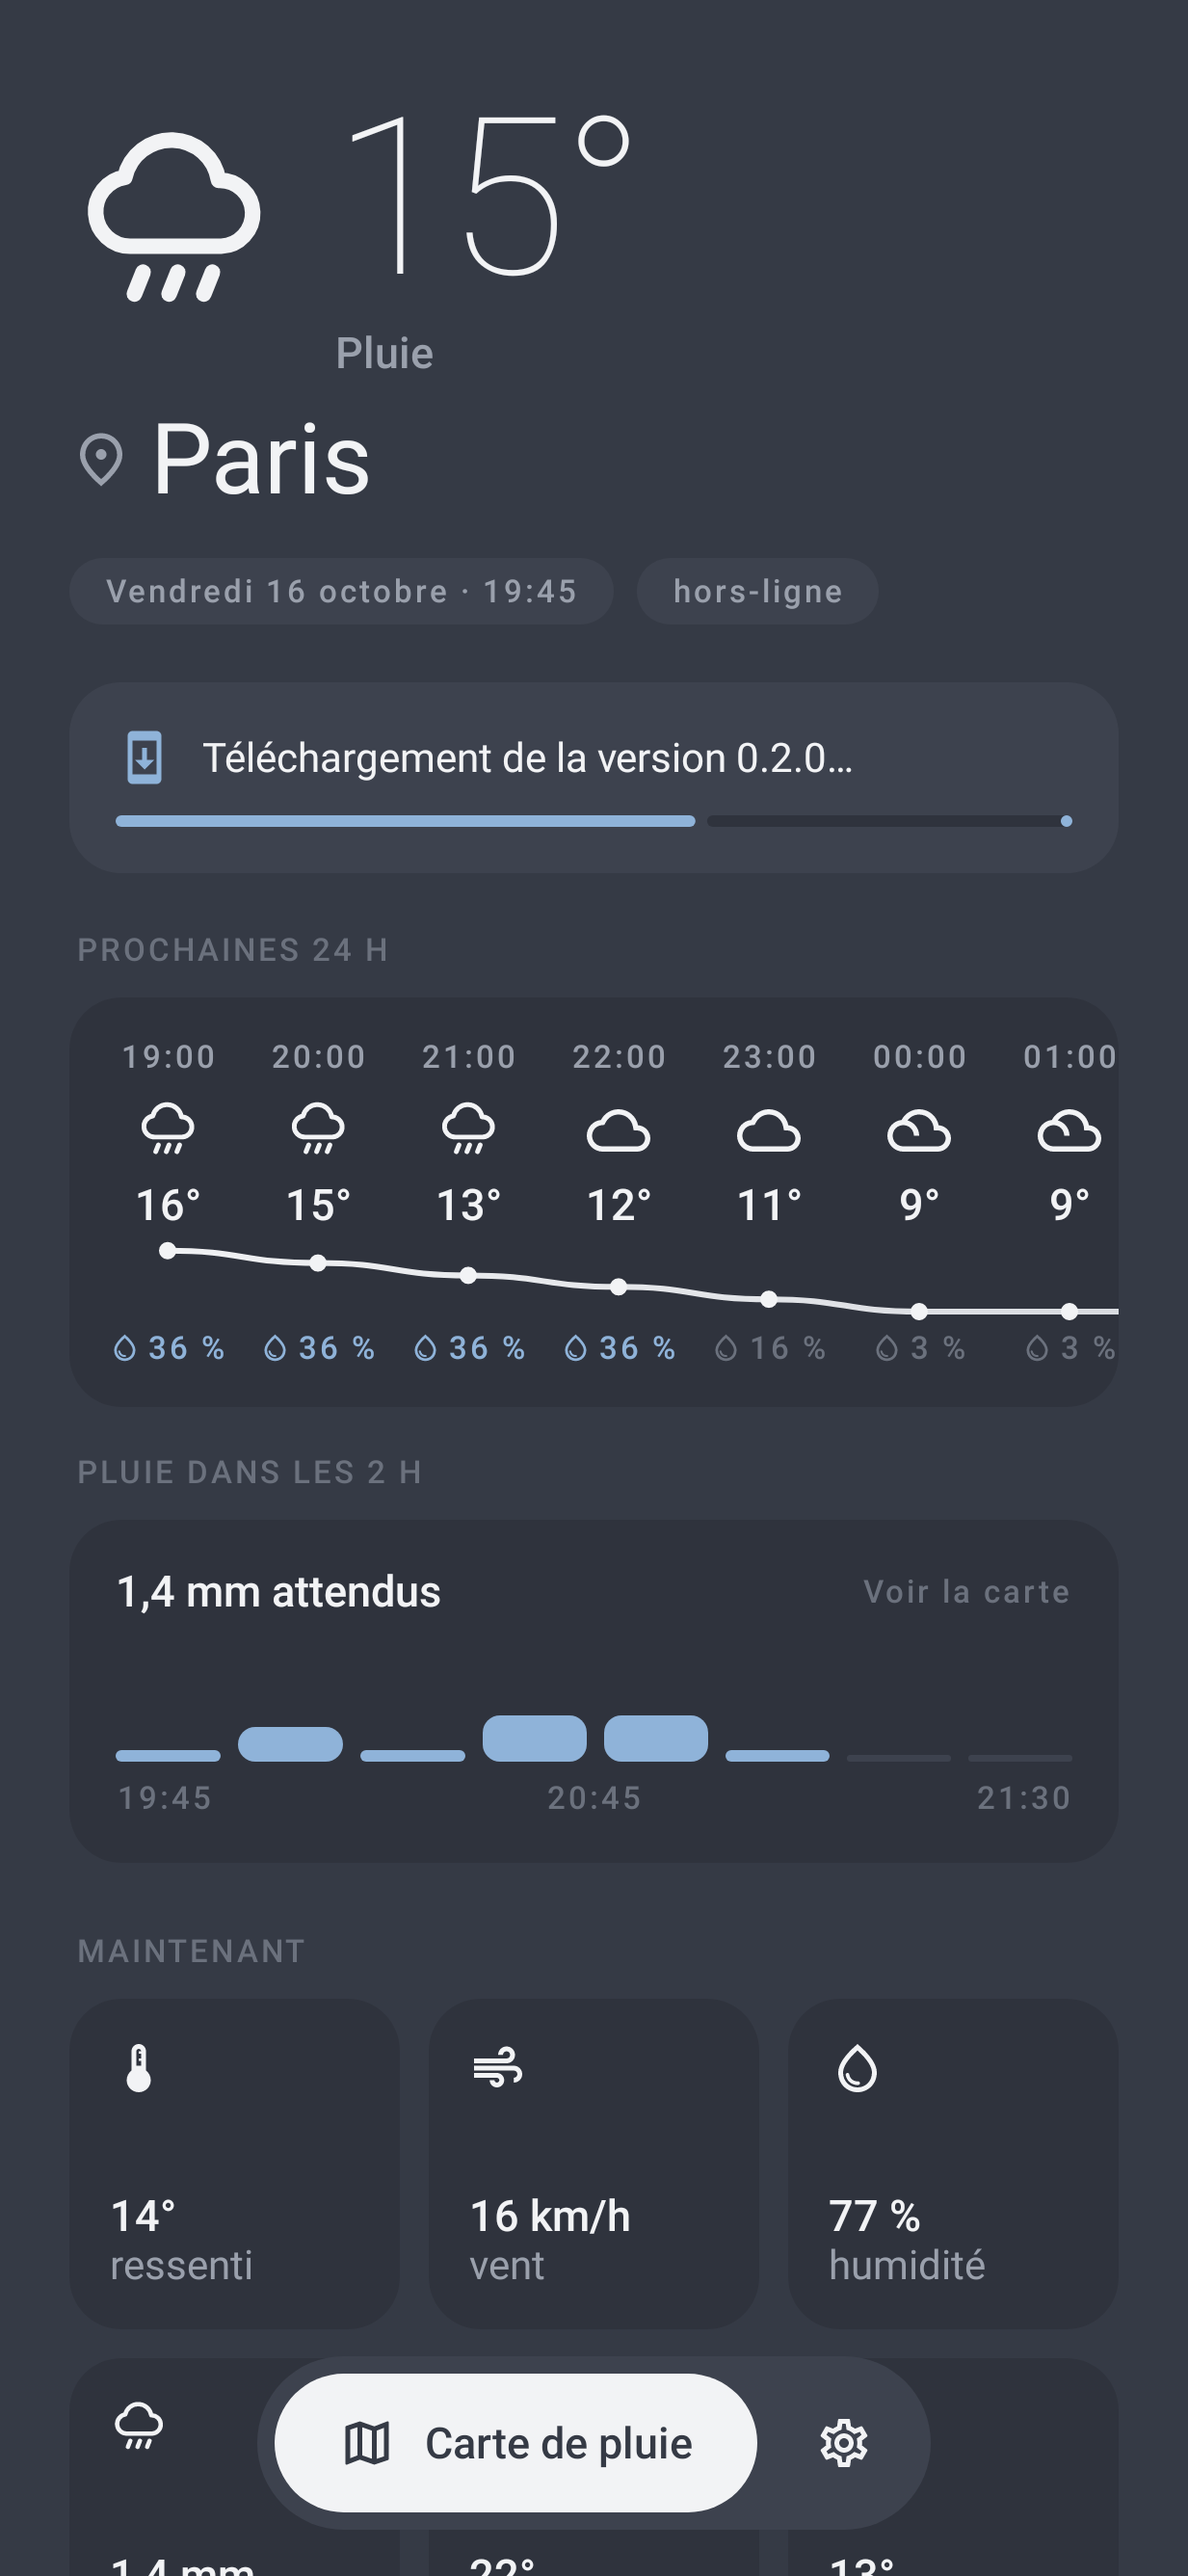
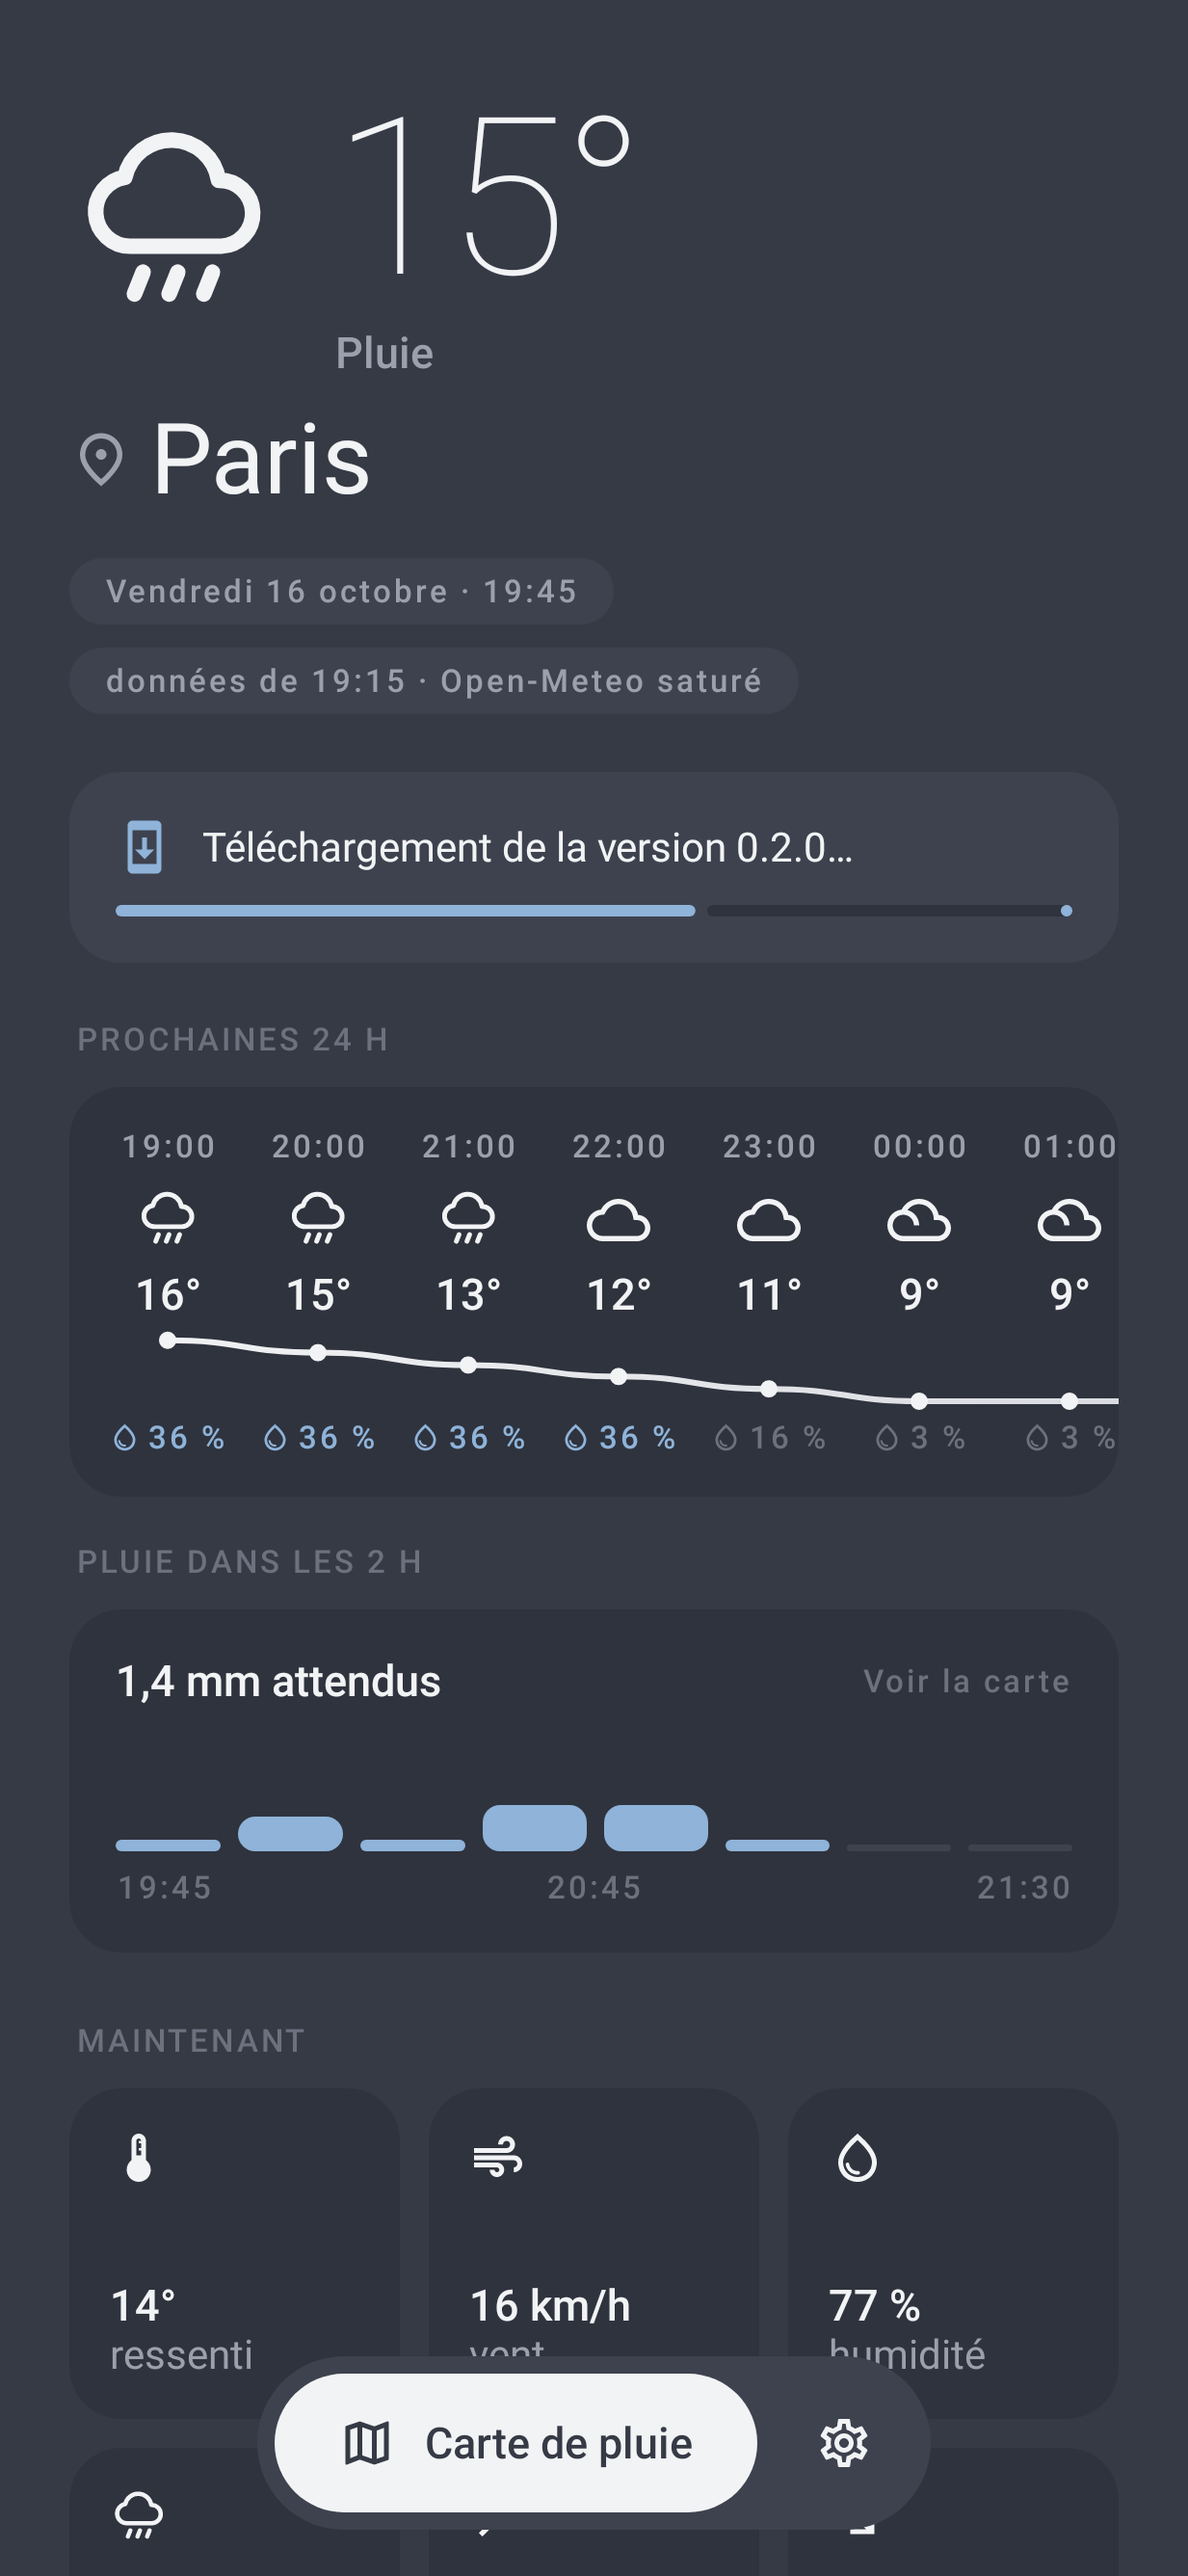
Quota Open-Meteo ménagé, raison des données en cache, thème clair adouci
- « hors-ligne » remplacé par « données de HH:mm · raison » + nouvel essai automatique
- OpenMeteoQuota : après un 429, la carte s'abstient ~1 min pour laisser passer l'accueil
- Avec AROME-PI : grille Open-Meteo réduite (80 points, au-delà de +6 h), prévision
  incomplète non mise en cache et rechargée dès la minute suivante
- Thème clair : texte moins noir

Claude-Session: https://claude.ai/code/session_01VhSL2CRbYz8j8n8SGyW4DJ

diff --git a/android-app/app/src/main/java/com/namm/meteo/data/repository/RainMapRepository.kt b/android-app/app/src/main/java/com/namm/meteo/data/repository/RainMapRepository.kt
@@ -2,6 +2,7 @@ package com.namm.meteo.data.repository
 
 import com.namm.meteo.data.arome.AromePiSource
 import com.namm.meteo.data.remote.GridPointDto
+import com.namm.meteo.data.remote.OpenMeteoQuota
 import com.namm.meteo.data.remote.OpenMeteoApi
 import com.namm.meteo.data.remote.RainViewerApi
 import com.namm.meteo.data.remote.RainViewerMapsDto
@@ -38,6 +39,11 @@ class RainMapRepository(
         RainMap(grid, frames)
     }
 
+    /** Vrai si la dernière prévision chargée est incomplète (Open-Meteo indisponible). */
+    @Volatile
+    var lastPartial: Boolean = false
+        private set
+
     /** Zones de prévision déjà téléchargées (les plus récentes en tête). */
     private val cache = ArrayDeque<CachedGrid>()
 
@@ -64,12 +70,17 @@ class RainMapRepository(
         coroutineScope {
             val key = aromeKey()?.takeIf { it.isNotBlank() && AromePiSource.covers(grid) }
             val aromeFrames = key?.let { async { runCatching { arome.forecast(it, grid, now) }.getOrDefault(emptyList()) } }
-            val openMeteoFrames = runCatching { openMeteoFrames(grid, now) }
+            // Avec AROME-PI, Open-Meteo ne sert qu'au-delà de +6 h : une grille grossière suffit
+            // (≈ 80 points au lieu de 192) et ménage le quota par minute.
+            val openMeteoGrid = if (key != null) coarse(grid) else grid
+            val openMeteoFrames = runCatching { openMeteoFrames(openMeteoGrid, now) }
             val precise = aromeFrames?.await().orEmpty()
             val after = precise.lastOrNull()?.time ?: Long.MIN_VALUE
             val frames = precise + openMeteoFrames.getOrNull().orEmpty().filter { it.time > after }
             if (frames.isEmpty()) openMeteoFrames.getOrThrow()
-            frames.also { cacheFrames(grid, it, now) }
+            // Prévision incomplète (Open-Meteo saturé) : non mise en cache, et nouvel essai rapide.
+            lastPartial = openMeteoFrames.isFailure
+            frames.also { if (!lastPartial) cacheFrames(grid, it, now) }
         }
 
     private fun cacheFrames(grid: ForecastGrid, frames: List<MapFrame>, now: Long) {
@@ -80,6 +91,8 @@ class RainMapRepository(
     }
 
     private suspend fun openMeteoFrames(grid: ForecastGrid, now: Long): List<MapFrame> {
+        // Open-Meteo saturé : la carte attend, pour laisser le quota à l'accueil.
+        if (OpenMeteoQuota.isBlocked) throw java.io.IOException("Open-Meteo saturé, nouvel essai dans une minute")
         val points = grid.coordinates()
         return forecastFrames(
             grid,
@@ -109,6 +122,23 @@ class RainMapRepository(
             rows = GRID_ROWS,
             cols = GRID_COLS,
         )
+
+        const val COARSE_COLS = 8
+        const val COARSE_ROWS = 10
+
+        /** Même emprise que [grid] avec moins de points (prévision au-delà de +6 h). */
+        fun coarse(grid: ForecastGrid): ForecastGrid {
+            val north = grid.south + grid.latStep * (grid.rows - 1)
+            val east = grid.west + grid.lonStep * (grid.cols - 1)
+            return ForecastGrid(
+                south = grid.south,
+                west = grid.west,
+                latStep = (north - grid.south) / (COARSE_ROWS - 1),
+                lonStep = (east - grid.west) / (COARSE_COLS - 1),
+                rows = COARSE_ROWS,
+                cols = COARSE_COLS,
+            )
+        }
 
         /** Grille couvrant la zone visible (+10 % de marge), même nombre de points quel que soit le zoom. */
         fun gridFor(view: Bounds): ForecastGrid {

diff --git a/android-app/app/src/main/java/com/namm/meteo/ui/forecast/ForecastScreen.kt b/android-app/app/src/main/java/com/namm/meteo/ui/forecast/ForecastScreen.kt
@@ -5,6 +5,8 @@ import androidx.compose.foundation.clickable
 import androidx.compose.foundation.layout.Arrangement
 import androidx.compose.foundation.layout.Box
 import androidx.compose.foundation.layout.Column
+import androidx.compose.foundation.layout.ExperimentalLayoutApi
+import androidx.compose.foundation.layout.FlowRow
 import androidx.compose.foundation.layout.Row
 import androidx.compose.foundation.layout.Spacer
 import androidx.compose.foundation.layout.aspectRatio
@@ -112,6 +114,7 @@ fun ForecastScreen(
     }
 }
 
+@OptIn(ExperimentalLayoutApi::class)
 @Composable
 fun ForecastContent(
     data: LocalForecast,
@@ -159,13 +162,18 @@ fun ForecastContent(
             )
         }
         Spacer(Modifier.height(10.dp))
-        Row(horizontalArrangement = Arrangement.spacedBy(8.dp)) {
+        FlowRow(horizontalArrangement = Arrangement.spacedBy(8.dp), verticalArrangement = Arrangement.spacedBy(8.dp)) {
             Pill(
                 now.dayOfWeek.getDisplayName(TextStyle.FULL, French).replaceFirstChar { it.uppercase() } +
                     " ${now.dayOfMonth} " + now.month.getDisplayName(TextStyle.FULL, French) +
                     " · " + forecast.current.time.substringAfter('T'),
             )
-            if (data.offline) Pill("hors-ligne")
+            // Mise à jour échouée : on dit de quand datent les données et pourquoi.
+            data.staleReason?.let { reason ->
+                val time = java.time.format.DateTimeFormatter.ofPattern("HH:mm")
+                    .format(java.time.Instant.ofEpochMilli(data.fetchedAtMillis).atZone(java.time.ZoneId.systemDefault()))
+                Pill("données de $time · ${reason.label}")
+            }
         }
 
         UpdateBanner(update, onUpdateAction)

diff --git a/android-app/app/src/main/java/com/namm/meteo/data/remote/Network.kt b/android-app/app/src/main/java/com/namm/meteo/data/remote/Network.kt
@@ -6,12 +6,33 @@ import okhttp3.OkHttpClient
 import retrofit2.Retrofit
 import retrofit2.converter.kotlinx.serialization.asConverterFactory
 
+/**
+ * Open-Meteo limite les appels par minute et par IP (chaque point d'une grille compte).
+ * Dès qu'un 429 est reçu, on note jusqu'à quand le service est saturé : la carte s'abstient
+ * pendant ce temps pour laisser passer l'accueil, et l'accueil affiche une raison claire.
+ */
+object OpenMeteoQuota {
+    @Volatile
+    var blockedUntilMillis: Long = 0
+        private set
+
+    val isBlocked: Boolean get() = System.currentTimeMillis() < blockedUntilMillis
+
+    fun block(seconds: Long) {
+        blockedUntilMillis = System.currentTimeMillis() + seconds * 1000
+    }
+}
+
 object Network {
     val json = Json { ignoreUnknownKeys = true }
 
     private val client = OkHttpClient.Builder()
         .addInterceptor { chain ->
-            chain.proceed(chain.request().newBuilder().header("User-Agent", "NoAdMeteo-Android").build())
+            val response = chain.proceed(chain.request().newBuilder().header("User-Agent", "NoAdMeteo-Android").build())
+            if (response.code == 429 && chain.request().url.host.endsWith("open-meteo.com")) {
+                OpenMeteoQuota.block(response.header("Retry-After")?.toLongOrNull() ?: 60)
+            }
+            response
         }
         .build()
 

diff --git a/android-app/app/src/main/java/com/namm/meteo/data/repository/ForecastRepository.kt b/android-app/app/src/main/java/com/namm/meteo/data/repository/ForecastRepository.kt
@@ -18,8 +18,24 @@ data class LocalForecast(
     val place: Place,
     val forecast: Forecast,
     val fetchedAtMillis: Long,
-    val offline: Boolean = false,
-)
+    /** Non nul quand la mise à jour a échoué et que l'on affiche la dernière prévision connue. */
+    val staleReason: StaleReason? = null,
+) {
+    val offline: Boolean get() = staleReason != null
+}
+
+enum class StaleReason(val label: String) {
+    NO_NETWORK("pas de réseau"),
+    RATE_LIMITED("Open-Meteo saturé"),
+    ERROR("service indisponible"),
+}
+
+internal fun Throwable.staleReason(): StaleReason = when {
+    this is retrofit2.HttpException && code() == 429 -> StaleReason.RATE_LIMITED
+    this is java.net.UnknownHostException || this is java.net.ConnectException ||
+        this is java.net.SocketTimeoutException -> StaleReason.NO_NETWORK
+    else -> StaleReason.ERROR
+}
 
 class ForecastRepository(
     private val api: OpenMeteoApi,
@@ -44,7 +60,7 @@ class ForecastRepository(
             cache.write(CachedForecast(target, now, dto))
             LocalForecast(target, dto.toDomain(), now)
         } catch (e: Exception) {
-            cached()?.copy(offline = true) ?: throw e
+            cached()?.copy(staleReason = e.staleReason()) ?: throw e
         }
     }
 

diff --git a/android-app/app/src/main/java/com/namm/meteo/ui/forecast/ForecastViewModel.kt b/android-app/app/src/main/java/com/namm/meteo/ui/forecast/ForecastViewModel.kt
@@ -68,6 +68,22 @@ class ForecastViewModel(
                 onFailure = { (_state.value as? ForecastUiState.Success) ?: ForecastUiState.Error(it.message ?: "Erreur réseau") },
             )
             _refreshing.value = false
+            scheduleRetry()
+        }
+    }
+
+    private var retryJob: kotlinx.coroutines.Job? = null
+
+    /** Données en cache affichées : nouvel essai automatique (après la fin de la saturation si connue). */
+    private fun scheduleRetry() {
+        retryJob?.cancel()
+        val data = (_state.value as? ForecastUiState.Success)?.data ?: return
+        if (data.staleReason == null) return
+        retryJob = viewModelScope.launch {
+            val wait = (com.namm.meteo.data.remote.OpenMeteoQuota.blockedUntilMillis - System.currentTimeMillis())
+                .coerceAtLeast(30_000) + 2_000
+            kotlinx.coroutines.delay(wait)
+            refresh()
         }
     }
 

diff --git a/android-app/app/src/test/java/com/namm/meteo/data/ForecastMappingTest.kt b/android-app/app/src/test/java/com/namm/meteo/data/ForecastMappingTest.kt
@@ -1,6 +1,8 @@
 package com.namm.meteo.data
 
 import com.namm.meteo.Fixtures
+import com.namm.meteo.data.repository.StaleReason
+import com.namm.meteo.data.repository.staleReason
 import com.namm.meteo.data.repository.toDomain
 import com.namm.meteo.data.repository.toPlaces
 import org.junit.Assert.assertEquals
@@ -43,5 +45,16 @@ class ForecastMappingTest {
 
         assertEquals("Clermont-Ferrand", places.first().name)
         assertTrue(places.first().detail!!.contains("France"))
+    }
+}
+
+class StaleReasonTest {
+    @Test
+    fun reasonIsDerivedFromTheFailure() {
+        val tooMany = retrofit2.HttpException(
+            retrofit2.Response.error<Any>(429, okhttp3.ResponseBody.create(null, "")),
+        )
+        assertEquals(StaleReason.RATE_LIMITED, tooMany.staleReason())
+        assertEquals(StaleReason.NO_NETWORK, java.net.UnknownHostException().staleReason())
     }
 }

diff --git a/android-app/app/src/test/java/com/namm/meteo/data/RainMapTest.kt b/android-app/app/src/test/java/com/namm/meteo/data/RainMapTest.kt
@@ -57,6 +57,18 @@ class RainMapTest {
     }
 
     @Test
+    fun coarseGridKeepsTheSameArea() {
+        val grid = RainMapRepository.gridFor(Bounds(48.0, 1.0, 50.0, 4.0))
+        val coarse = RainMapRepository.coarse(grid)
+        val a = grid.coordinates()
+        val b = coarse.coordinates()
+
+        assertEquals(80, b.size)
+        assertEquals(a.first().first, b.first().first, 1e-9)
+        assertEquals(a.last().second, b.last().second, 1e-9)
+    }
+
+    @Test
     fun `url des tuiles radar RainViewer`() {
         val frames = RainViewerMapsDto("https://tilecache.rainviewer.com", RadarDto(listOf(RadarFrameDto(1, "/v2/radar/abc"))))
             .toFrames()

diff --git a/android-app/app/src/main/java/com/namm/meteo/ui/map/MapViewModel.kt b/android-app/app/src/main/java/com/namm/meteo/ui/map/MapViewModel.kt
@@ -110,7 +110,9 @@ class MapViewModel(
     /** Recharge si les données ont plus de [REFRESH_MS] (radar mis à jour toutes les 10 min). */
     fun refreshIfStale() {
         val s = _state.value
-        if (s is MapUiState.Ready && !s.refreshing && clock() - s.loadedAt >= REFRESH_MS) load()
+        // Prévision incomplète (Open-Meteo saturé) : on réessaie dès la minute suivante.
+        val maxAge = if (rainMaps.lastPartial) 60_000L else REFRESH_MS
+        if (s is MapUiState.Ready && !s.refreshing && clock() - s.loadedAt >= maxAge) load()
         if (s is MapUiState.Error) load()
     }
 

diff --git a/android-app/app/src/test/java/com/namm/meteo/Fixtures.kt b/android-app/app/src/test/java/com/namm/meteo/Fixtures.kt
@@ -28,7 +28,7 @@ object Fixtures {
 
     val paris = Place("Paris", 48.8566, 2.3522, "Position actuelle")
 
-    fun localForecast(offline: Boolean = false) = LocalForecast(paris, forecastDto().toDomain(), 0L, offline)
+    fun localForecast(offline: Boolean = false) = LocalForecast(paris, forecastDto().toDomain(), 1_792_178_100_000L, if (offline) com.namm.meteo.data.repository.StaleReason.RATE_LIMITED else null)
 
     /** Carte de pluie synthétique : une cellule pluvieuse qui traverse la grille. */
     fun rainMap(): RainMap {

diff --git a/android-app/app/src/main/java/com/namm/meteo/ui/theme/Theme.kt b/android-app/app/src/main/java/com/namm/meteo/ui/theme/Theme.kt
@@ -45,9 +45,9 @@ val LightSlate = SlatePalette(
     background = Color(0xFFE9EBEF),
     tile = Color(0xFFF8F9FA),
     tileHighlight = Color(0xFFDADDE3),
-    primary = Color(0xFF2B2F38),
-    secondary = Color(0xFF5E6470),
-    muted = Color(0xFF8A909B),
+    primary = Color(0xFF454B57),
+    secondary = Color(0xFF6E7480),
+    muted = Color(0xFF979CA6),
     rain = Color(0xFF3F7CC4),
     isDark = false,
 )

diff --git a/android-app/ARCHITECTURE.md b/android-app/ARCHITECTURE.md
@@ -32,6 +32,11 @@ Aucune API gratuite ne fournit des **tuiles de prévision** de pluie prêtes à 
 4. Rafraîchissement : automatique si les données ont > 10 min (vérifié chaque minute tant que l'écran est visible) + pastille « Mis à jour à HH:mm » cliquable. Accueil : tirer vers le bas pour actualiser.
 5. Évolution possible : convertir les GRIB2 AROME de [meteo.data.gouv.fr](https://meteo.data.gouv.fr) en tuiles pour une carte nationale.
 
+### Quota Open-Meteo
+- `OpenMeteoQuota` : un 429 d'Open-Meteo bloque la carte ~60 s (Retry-After) pour laisser passer l'accueil.
+- Accueil en échec : pastille « données de HH:mm · raison » (pas de réseau / Open-Meteo saturé / service indisponible) et nouvel essai automatique.
+- Carte avec AROME-PI : grille Open-Meteo réduite à 8 × 10 points (au-delà de +6 h seulement) ; prévision incomplète non mise en cache et rechargée après 1 min.
+
 ### AROME-PI (si une clé est saisie)
 - `AromePiSource` : GetCapabilities (mémorisé 5 min) → choix automatique de la couche de précipitation (taux > cumul 15 min > cumul depuis le run) et du dernier run ;
   puis un GetCoverage GeoTIFF par pas de 15 min (4 en parallèle) sur l'emprise de la grille, réduit à ≤ 160 px.
